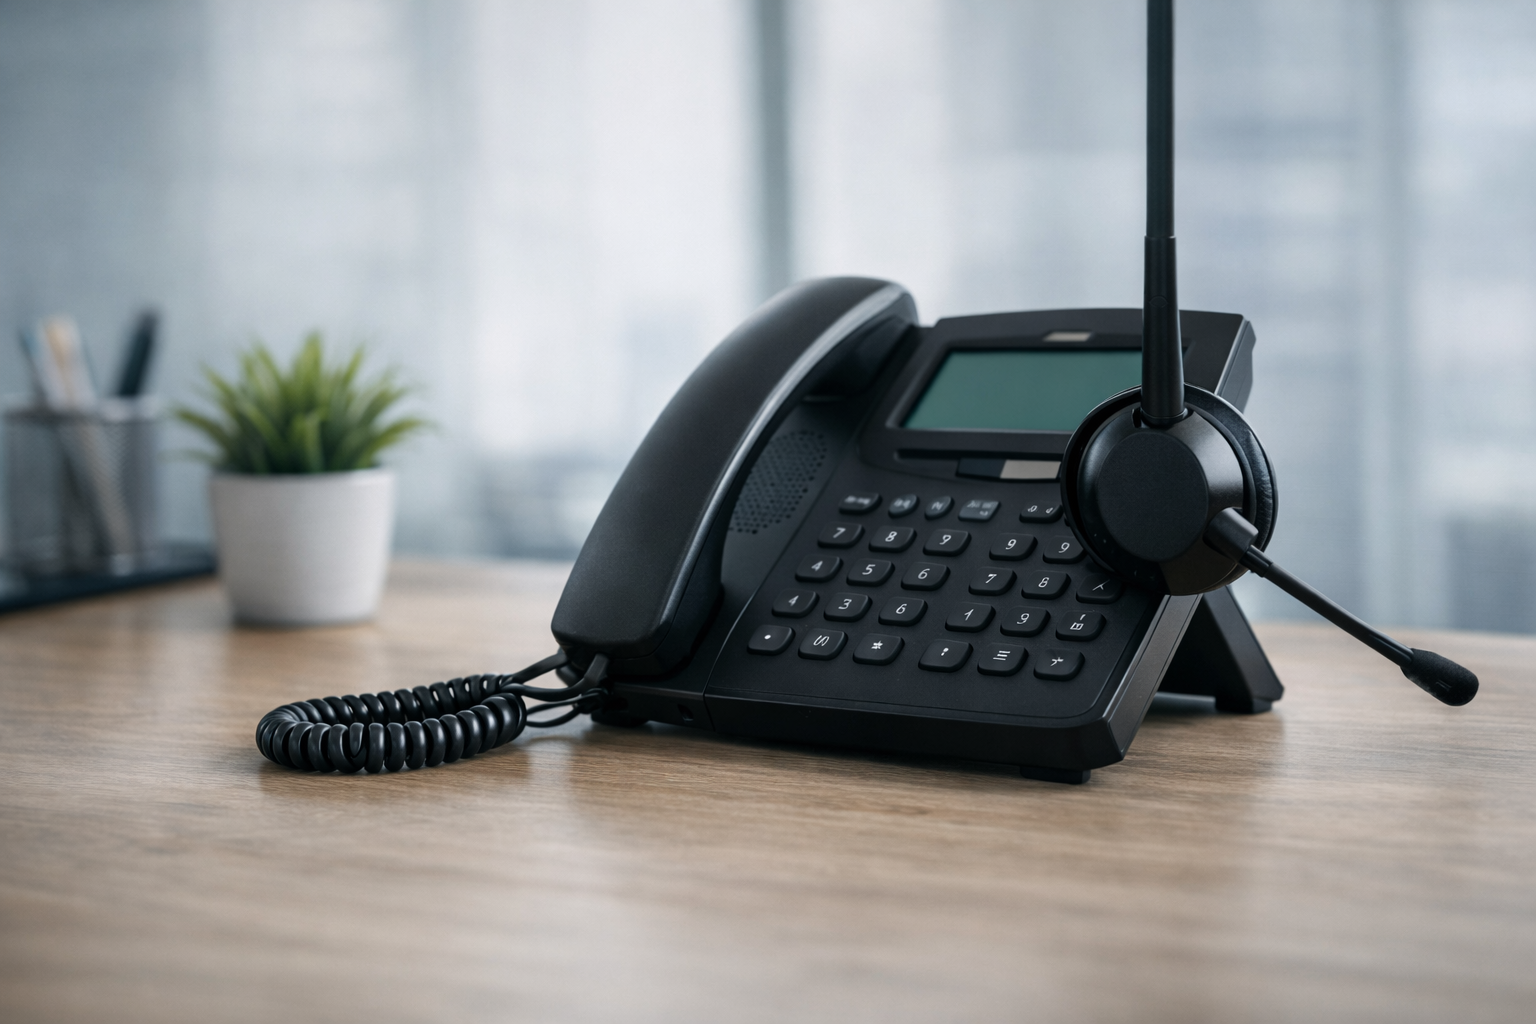
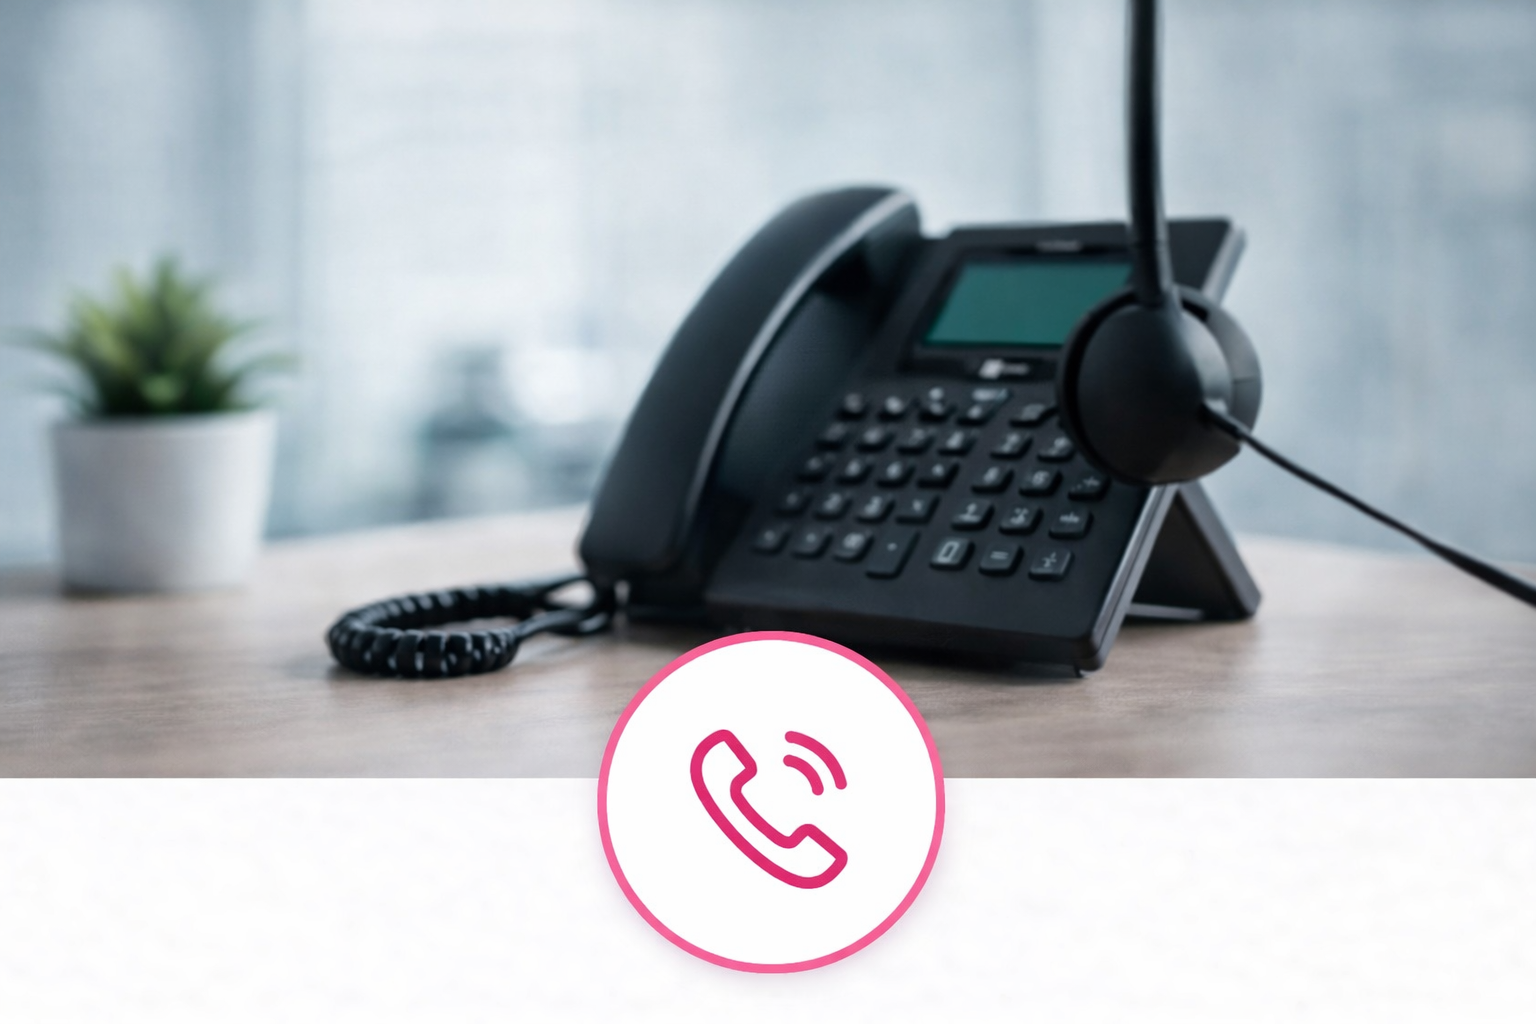
negocio

diff --git a/index.html b/index.html
@@ -83,7 +83,7 @@
     <div class="servicio">
       <img src="recuperacion.jpg" alt="Recuperación de Cartera">
       <div class="contenido-servicio">
-        <div class="icono-servicio">📄</div>
+        <div class="icono-servicio"> </div>
         <h3>Recuperación de Cartera</h3>
          </ul>
           <li> ✔ Gestión y recuperación de cuentas vencidas.</li>
@@ -98,7 +98,7 @@
     <div class="servicio">
       <img src="preventiva.jpg" alt="Cobranza Preventiva">
       <div class="contenido-servicio">
-        <div class="icono-servicio">📞</div>
+        <div class="icono-servicio"> </div>
         <h3>Cobranza Preventiva</h3>
         <ul></ul>
           <li> ✔ Estrategias para prevenir la morosidad.</li>
@@ -113,7 +113,7 @@
     <div class="servicio">
       <img src="negociacion.jpg" alt="Negociación Estratégica">
       <div class="contenido-servicio">
-        <div class="icono-servicio">🤝</div>
+        <div class="icono-servicio">  </div>
         <h3>Negociación Estratégica</h3>
         <ul></ul>
           <li> ✔ Acuerdos efectivos para recuperar tu cartera.</li>